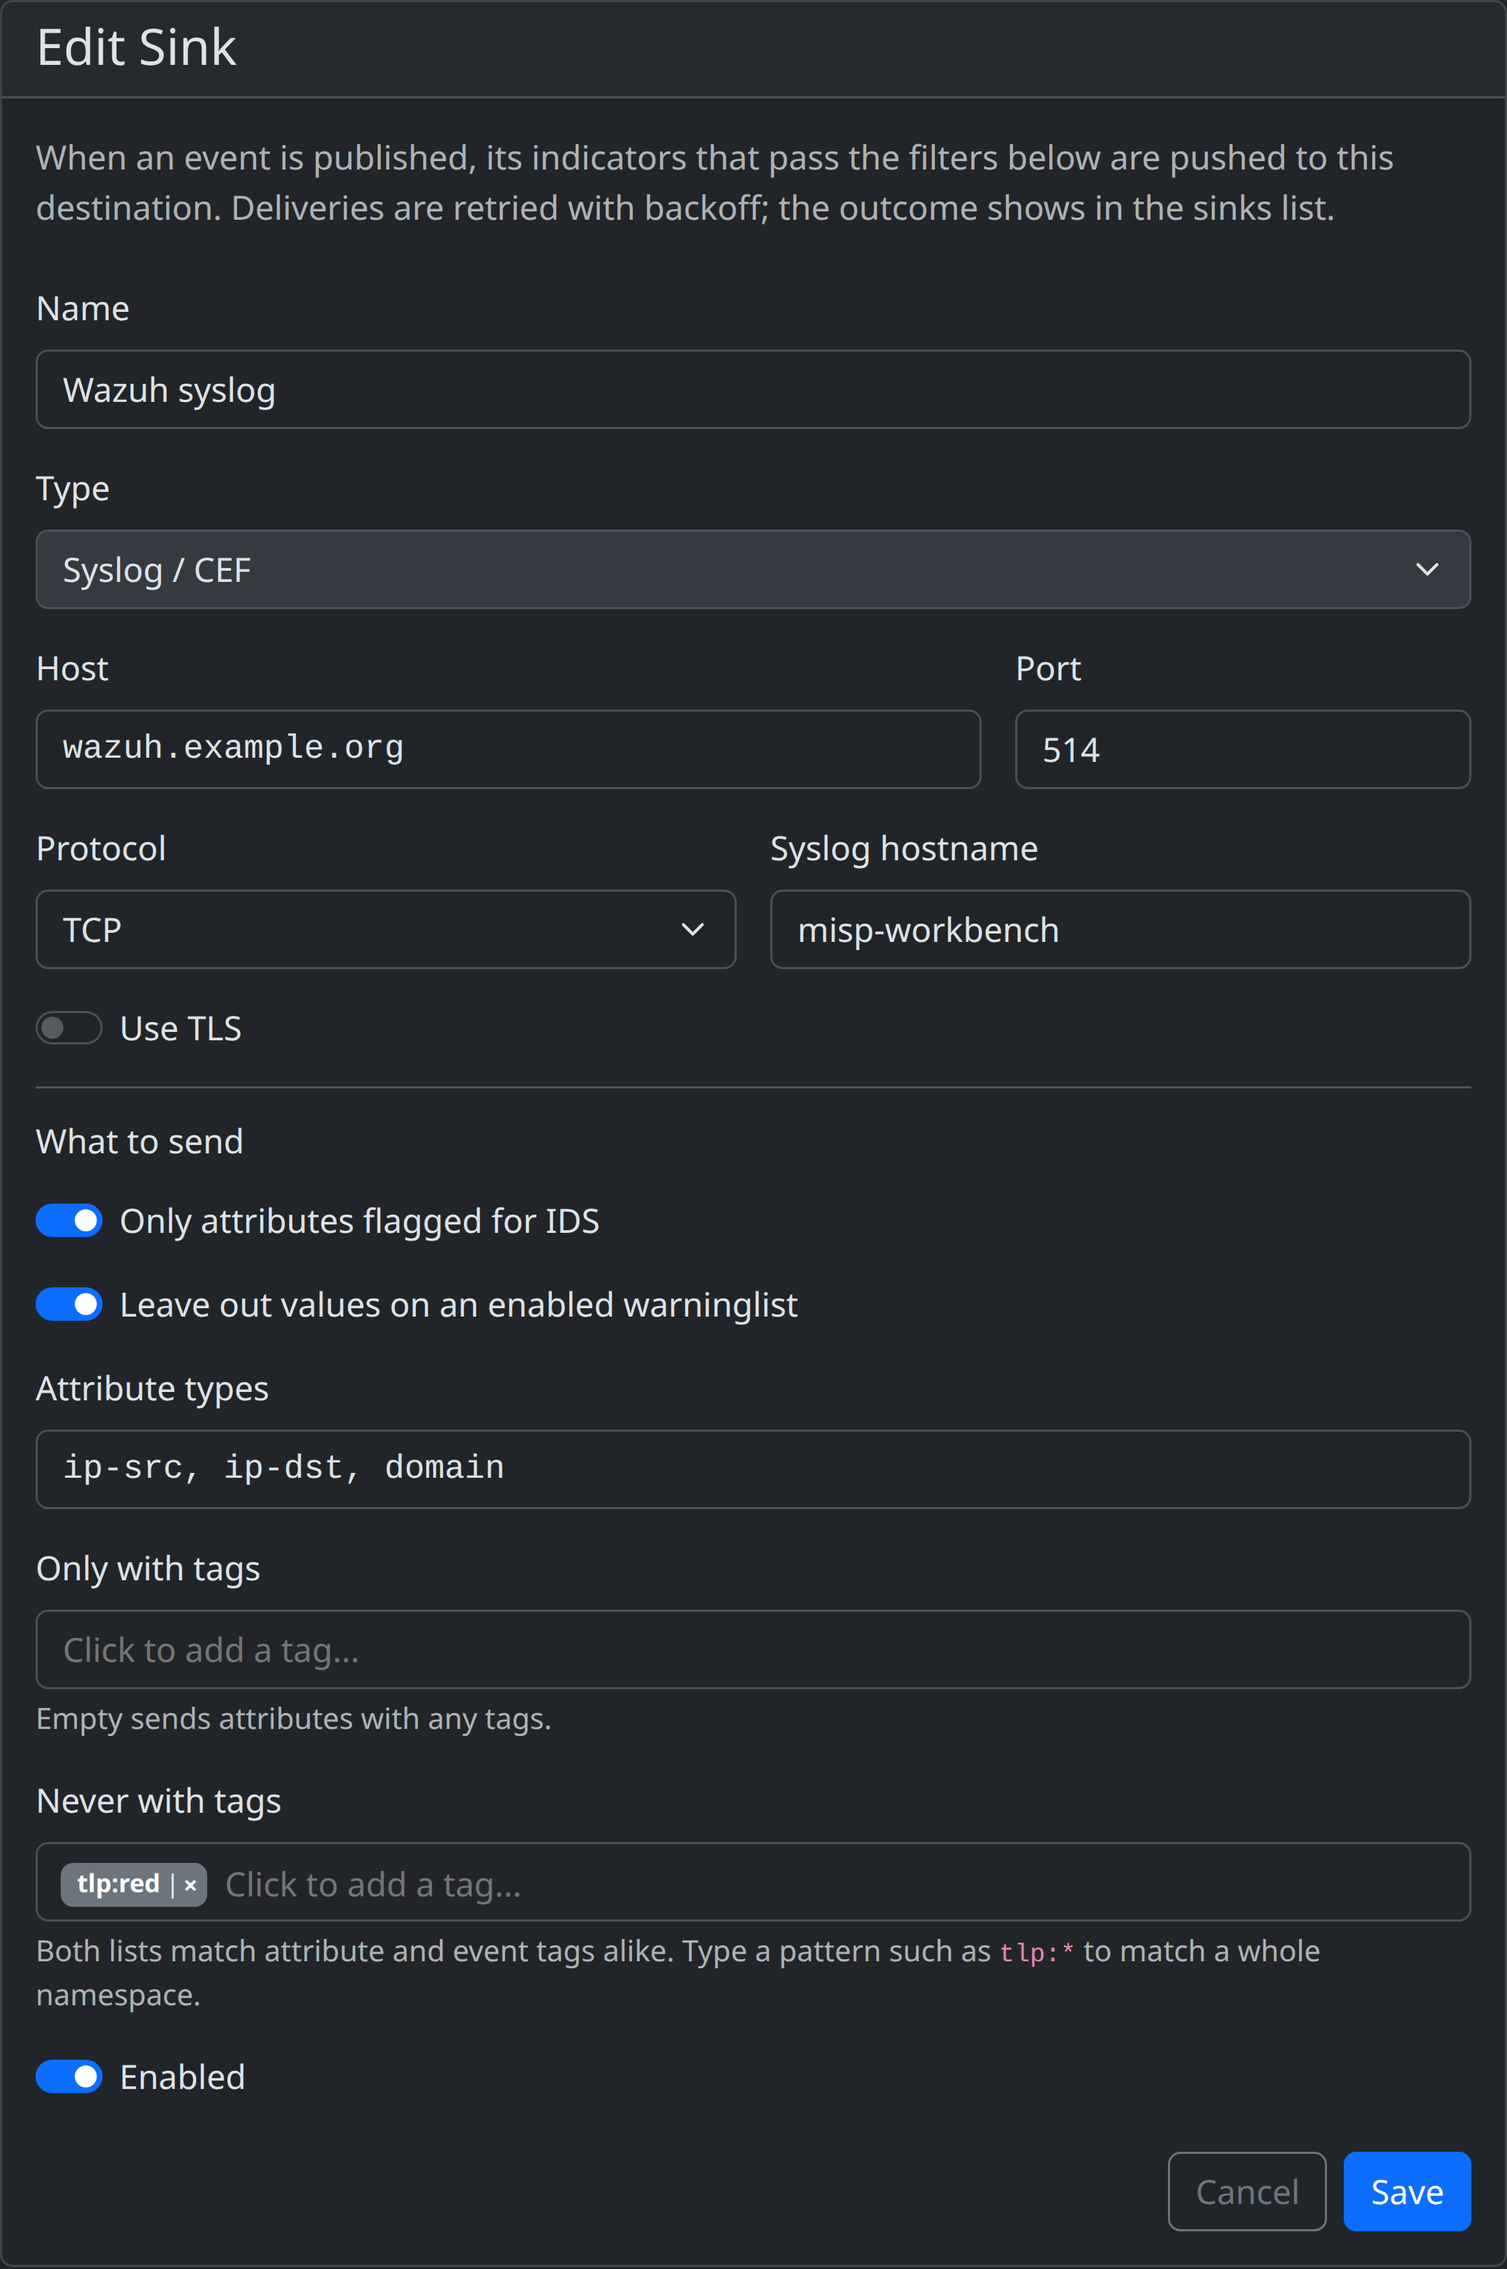
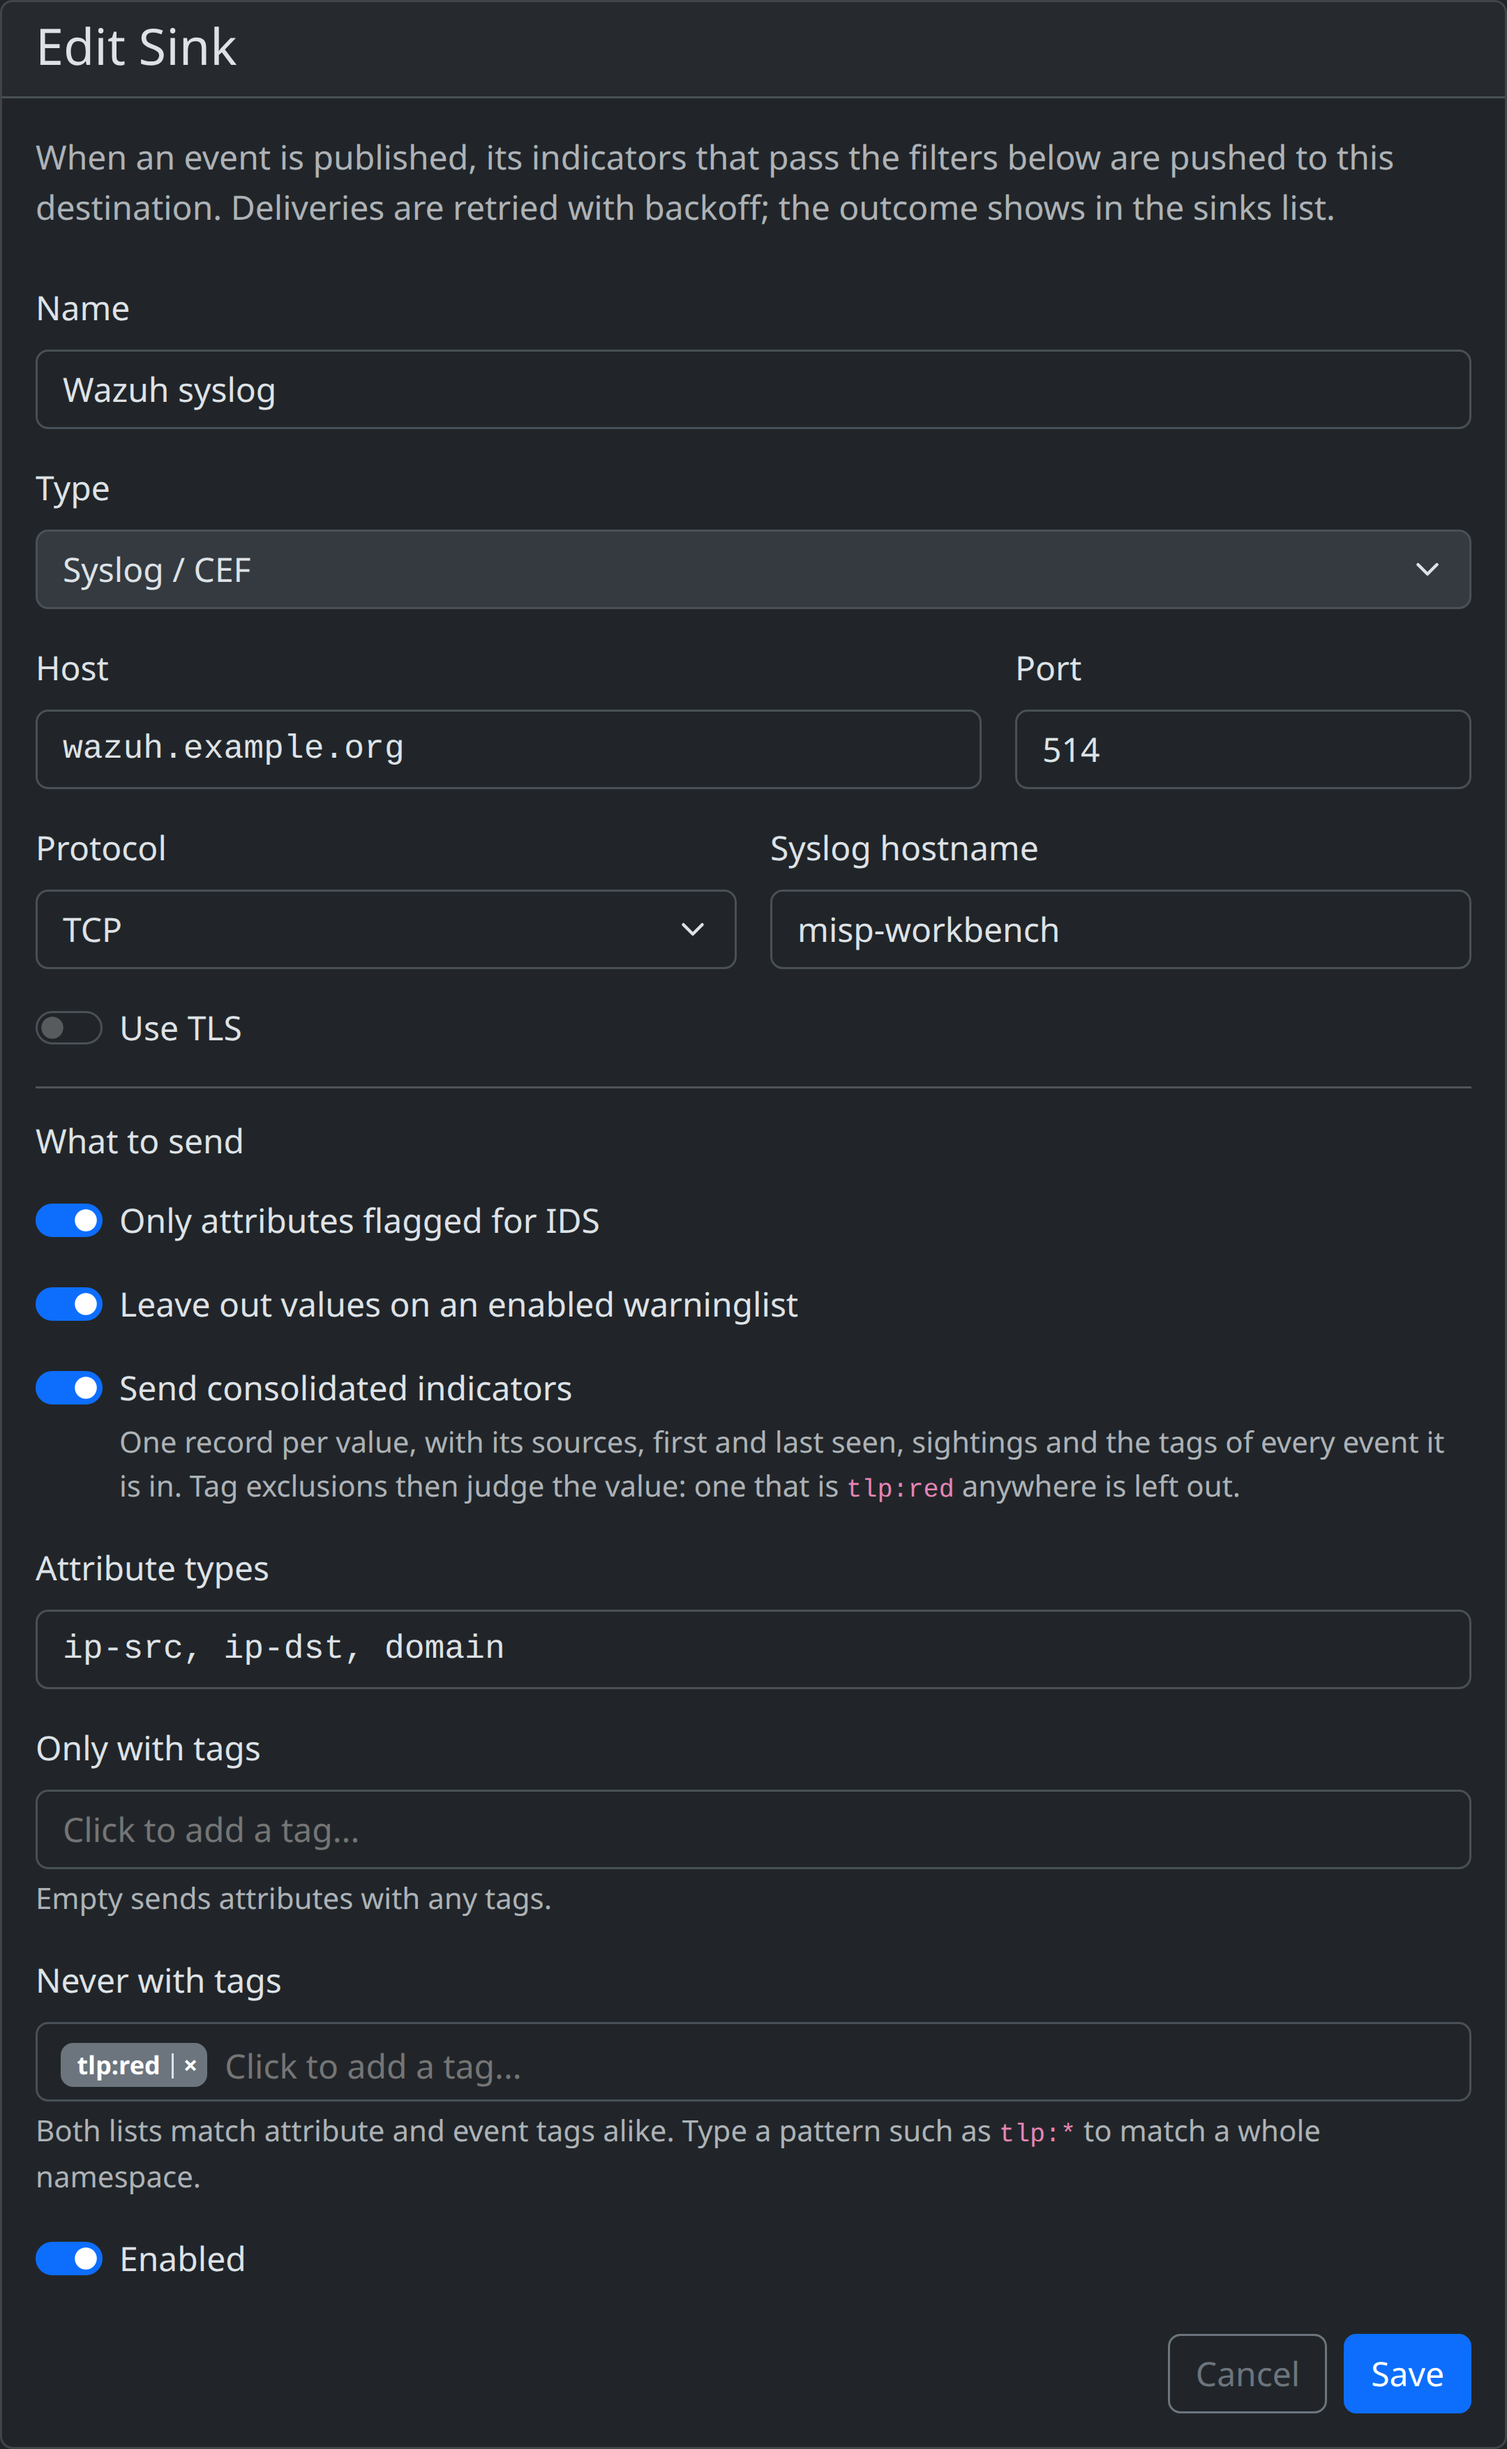
docs: screenshots of indicators and a sink sending them
A Playwright spec for the indicators page (list, and a row's consolidated
context), served from fixtures so captures don't depend on a dev
instance's data. The Wazuh sink fixture sends consolidated indicators, so
the edit-sink capture shows the new switch. Adds
`npm run docs:screenshots:indicators`.

diff --git a/frontend/scripts/docs-screenshots/indicators-fixtures.ts b/frontend/scripts/docs-screenshots/indicators-fixtures.ts
@@ -1,0 +1,206 @@
+/**
+ * Stub data for the indicators screenshots: consolidated indicators as the
+ * API returns them, built around the demo dataset's overlapping values
+ * (documentation ranges and example domains only).
+ */
+const day = 86400;
+const now = Math.floor(Date.UTC(2026, 9, 10, 9, 0, 0) / 1000);
+
+const indicator = (
+  n: number,
+  type: string,
+  value: string,
+  extra: Record<string, unknown>,
+) => ({
+  uuid: `1d1c0000-0001-5001-8000-0000000000${String(n).padStart(2, "0")}`,
+  type,
+  value,
+  categories: ["Network activity"],
+  to_ids: true,
+  deleted: false,
+  attribute_count: 1,
+  ids_attribute_count: 1,
+  event_count: 1,
+  events: [],
+  first_seen: now - 30 * day,
+  last_seen: now - day,
+  sources: [],
+  organisations: [],
+  tags: [],
+  tlp: null,
+  galaxies: [],
+  sightings: {
+    positive: 0,
+    false_positive: 0,
+    expiration: 0,
+    first_at: null,
+    last_at: null,
+  },
+  warninglist_hits: [],
+  updated_at: now - 600,
+  ...extra,
+});
+
+const feed = (id: number, name: string, event_count: number) => ({
+  type: "feed",
+  id,
+  name,
+  event_count,
+});
+const server = (id: number, name: string, event_count: number) => ({
+  type: "server",
+  id,
+  name,
+  event_count,
+});
+const local = (event_count: number) => ({
+  type: "local",
+  id: null,
+  name: "local",
+  event_count,
+});
+
+const COBALT = [
+  'misp-galaxy:tool="Cobalt Strike"',
+  'misp-galaxy:threat-actor="Turla"',
+  'misp-galaxy:mitre-attack-pattern="Application Layer Protocol - T1071"',
+];
+
+export const INDICATORS = [
+  indicator(1, "ip-dst", "198.51.100.23", {
+    attribute_count: 4,
+    ids_attribute_count: 4,
+    event_count: 4,
+    events: [
+      "d3110000-0001-4001-8000-000000000001",
+      "a1f30000-0001-4001-8000-000000000001",
+      "5e2b9c41-7d0a-4b6e-9f3c-2a8d1e6f4b70",
+      "b84c1f07-3e9d-4a52-8c6b-0f7e2d9a1c35",
+    ],
+    first_seen: now - 41 * day,
+    last_seen: now - 2 * 3600,
+    sources: [
+      feed(1, "CIRCL OSINT", 2),
+      server(2, "Partner MISP", 1),
+      local(1),
+    ],
+    organisations: [
+      { name: "CIRCL", event_count: 2 },
+      { name: "Partner CERT", event_count: 1 },
+      { name: "ACME SOC", event_count: 1 },
+    ],
+    tags: [
+      "kill-chain:Command and Control",
+      ...COBALT,
+      "tlp:amber",
+      "tlp:green",
+    ],
+    tlp: "tlp:amber",
+    galaxies: COBALT,
+    sightings: {
+      positive: 37,
+      false_positive: 0,
+      expiration: 0,
+      first_at: now - 20 * day,
+      last_at: now - 2 * 3600,
+    },
+  }),
+  indicator(2, "domain", "c2.example-cobalt.net", {
+    attribute_count: 3,
+    ids_attribute_count: 3,
+    event_count: 3,
+    events: [
+      "d3110000-0001-4001-8000-000000000001",
+      "a1f30000-0001-4001-8000-000000000001",
+    ],
+    first_seen: now - 41 * day,
+    last_seen: now - 5 * 3600,
+    sources: [feed(1, "CIRCL OSINT", 2), local(1)],
+    organisations: [
+      { name: "CIRCL", event_count: 2 },
+      { name: "ACME SOC", event_count: 1 },
+    ],
+    tags: [...COBALT, "tlp:amber"],
+    tlp: "tlp:amber",
+    galaxies: COBALT,
+    sightings: {
+      positive: 15,
+      false_positive: 0,
+      expiration: 0,
+      first_at: now - 18 * day,
+      last_at: now - 5 * 3600,
+    },
+  }),
+  indicator(
+    3,
+    "sha256",
[1 lines of base64/hex data omitted]
+    {
+      categories: ["Payload delivery"],
+      attribute_count: 2,
+      ids_attribute_count: 2,
+      event_count: 2,
+      sources: [server(2, "Partner MISP", 2)],
+      organisations: [{ name: "Partner CERT", event_count: 2 }],
+      tags: ['misp-galaxy:malpedia="Cobalt Strike"', "tlp:green"],
+      tlp: "tlp:green",
+      galaxies: ['misp-galaxy:malpedia="Cobalt Strike"'],
+      last_seen: now - 26 * 3600,
+    },
+  ),
+  indicator(4, "url", "https://login-update.example.org/secure/verify.php", {
+    categories: ["Payload delivery"],
+    event_count: 1,
+    sources: [feed(3, "Phishing URLs", 1)],
+    organisations: [{ name: "Phishing URLs", event_count: 1 }],
+    tags: ["tlp:clear", "phishing"],
+    tlp: "tlp:clear",
+    last_seen: now - 2 * day,
+    sightings: {
+      positive: 4,
+      false_positive: 1,
+      expiration: 0,
+      first_at: now - 6 * day,
+      last_at: now - 2 * day,
+    },
+  }),
+  indicator(5, "ip-src", "203.0.113.77", {
+    attribute_count: 2,
+    ids_attribute_count: 1,
+    event_count: 2,
+    sources: [feed(1, "CIRCL OSINT", 1), server(2, "Partner MISP", 1)],
+    organisations: [
+      { name: "CIRCL", event_count: 1 },
+      { name: "Partner CERT", event_count: 1 },
+    ],
+    tags: ["tlp:green", "scanner"],
+    tlp: "tlp:green",
+    last_seen: now - 3 * day,
+  }),
+  indicator(6, "domain", "www.google.com", {
+    event_count: 1,
+    sources: [local(1)],
+    organisations: [{ name: "ACME SOC", event_count: 1 }],
+    tags: ["tlp:green"],
+    tlp: "tlp:green",
+    warninglist_hits: ["Top 1000 website from Alexa"],
+    last_seen: now - 4 * day,
+  }),
+];
+
+export const INDICATORS_PAGE = {
+  total: INDICATORS.length,
+  page: 1,
+  size: 50,
+  items: INDICATORS,
+};
+
+export const INDICATORS_STATUS = {
+  built: true,
+  built_at: now - 1800,
+  synced_at: now - 10,
+  indicators: 12408,
+  tombstones: 37,
+  pending_sighted_values: 0,
+  pending_events: 0,
+};

diff --git a/frontend/scripts/docs-screenshots/indicators.spec.ts b/frontend/scripts/docs-screenshots/indicators.spec.ts
@@ -1,0 +1,61 @@
+import { test, expect, Page } from "@playwright/test";
+import { applyTheme, capture, pinForCapture } from "./helpers";
+import { INDICATORS_PAGE, INDICATORS_STATUS } from "./indicators-fixtures";
+
+const FEATURE = "indicators";
+const API_PORT = 8080;
+
+function json(body: unknown) {
+  return {
+    status: 200,
+    contentType: "application/json",
+    body: JSON.stringify(body),
+  };
+}
+
+async function stubApi(page: Page) {
+  await page.route(new RegExp(`:${API_PORT}/notifications\\?read=false`), (r) =>
+    r.fulfill(json({ items: [], total: 0, page: 1, size: 1, pages: 0 })),
+  );
+  // Served from fixtures: a dev instance's indicators depend on what it holds.
+  await page.route(new RegExp(`:${API_PORT}/indicators/status$`), (r) =>
+    r.fulfill(json(INDICATORS_STATUS)),
+  );
+  await page.route(new RegExp(`:${API_PORT}/indicators\\?`), (r) =>
+    r.fulfill(json(INDICATORS_PAGE)),
+  );
+}
+
+test.describe("Indicators screenshots", () => {
+  test.beforeEach(async ({ page }) => {
+    await applyTheme(page);
+    await stubApi(page);
+  });
+
+  test("1 — indicators list", async ({ page }) => {
+    await page.setViewportSize({ width: 1600, height: 1100 });
+    await page.goto("/indicators");
+    await expect(page.getByText("c2.example-cobalt.net")).toBeVisible();
+    await pinForCapture(page);
+
+    await capture(
+      page.locator(".card").first(),
+      FEATURE,
+      "misp-workbench-1_indicators_list",
+    );
+  });
+
+  test("2 — an indicator's consolidated context", async ({ page }) => {
+    await page.setViewportSize({ width: 1600, height: 1300 });
+    await page.goto("/indicators");
+    await page.getByText("198.51.100.23").click();
+    await expect(page.getByText("Partner CERT (1)")).toBeVisible();
+    await pinForCapture(page);
+
+    await capture(
+      page.locator(".card").first(),
+      FEATURE,
+      "misp-workbench-2_indicators_detail",
+    );
+  });
+});

diff --git a/frontend/scripts/docs-screenshots/sinks-fixtures.ts b/frontend/scripts/docs-screenshots/sinks-fixtures.ts
@@ -80,7 +80,11 @@ export function sinksList() {
         ca_cert: null,
         hostname: "misp-workbench",
       },
-      filters: { ...FILTERS, types: ["ip-src", "ip-dst", "domain"] },
+      filters: {
+        ...FILTERS,
+        types: ["ip-src", "ip-dst", "domain"],
+        indicator_mode: true,
+      },
       created_at: minutesAgo(60 * 24 * 10),
       updated_at: minutesAgo(60 * 24 * 10),
       last_attempt_at: minutesAgo(30),

diff --git a/docs/features/indicators.md b/docs/features/indicators.md
@@ -9,6 +9,12 @@ misp-workbench keeps one **consolidated indicator** per type and value.
 Under ***internals*** → ***indicators*** you can search them. Click a row to
 see its organisations, sources, tags and events.
 
+<img src="../../screenshots/indicators/misp-workbench-1_indicators_list.png#only-light" alt="Indicators list" style="max-width: 100%; height: auto;">
+<img src="../../screenshots/indicators/misp-workbench-1_indicators_list-dark.png#only-dark" alt="Indicators list" style="max-width: 100%; height: auto;">
+
+<img src="../../screenshots/indicators/misp-workbench-2_indicators_detail.png#only-light" alt="An indicator's consolidated context" style="max-width: 100%; height: auto;">
+<img src="../../screenshots/indicators/misp-workbench-2_indicators_detail-dark.png#only-dark" alt="An indicator's consolidated context" style="max-width: 100%; height: auto;">
+
 ## What an indicator holds
 
 An indicator is built from every live attribute with its type and value.
